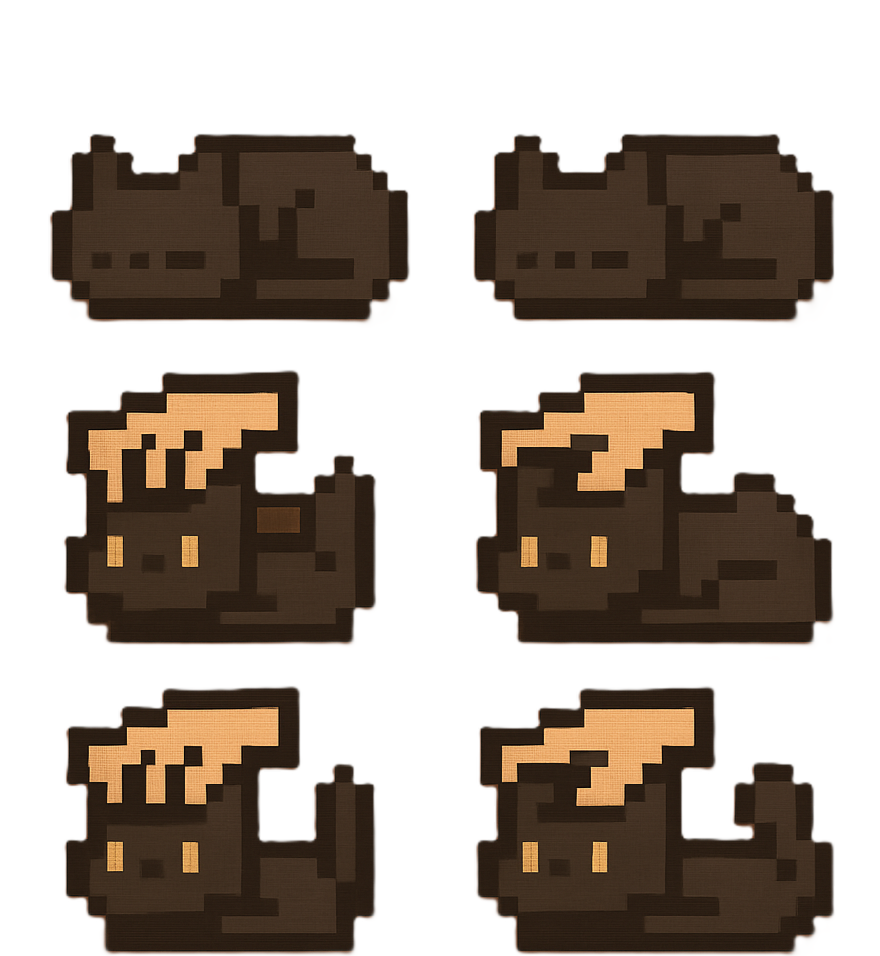
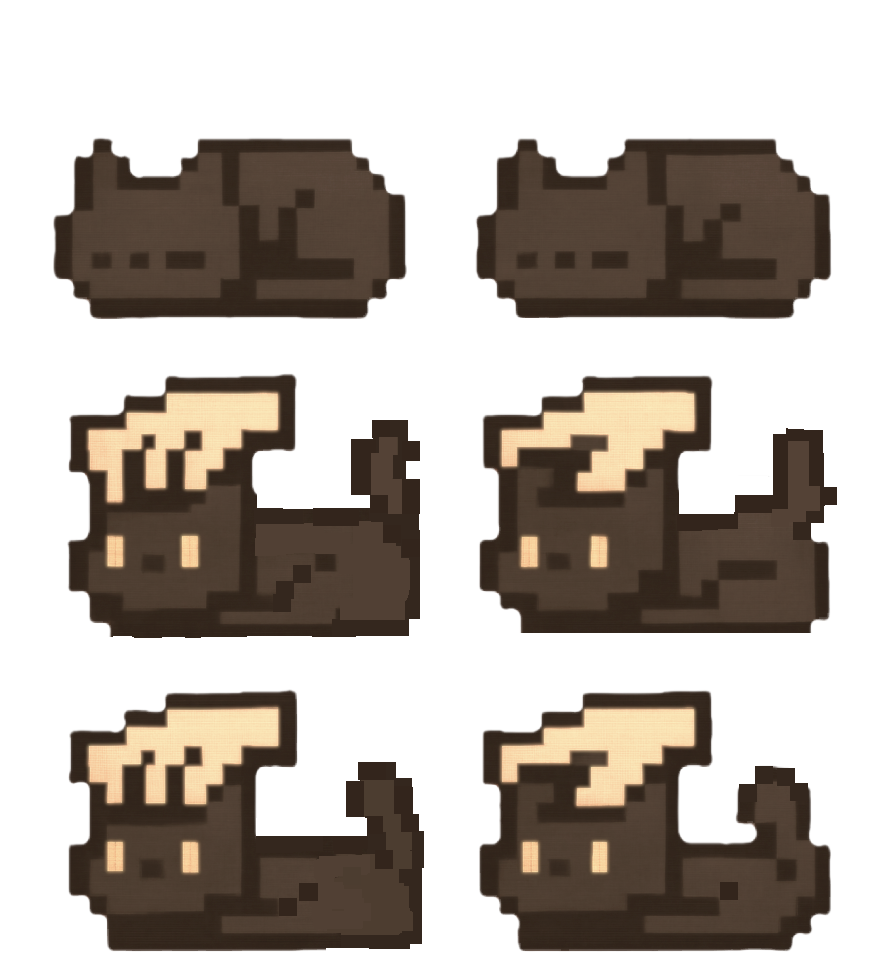
Dialogue buttons use Unicode glyphs; replace all colorful emoji
Swap every pictographic emoji for monochrome alternatives: dialogue choice buttons use text-presentation Unicode glyphs (chess pawn, music notes, list, doc, phone, sparkle, diamond, target), playful chat lines use ASCII emoticons (:D / ;) ), and the dev level-editor uses plain text labels. Removed dead emoji-only fields (world.js mapIcon, entities.js object icon). Kept text glyphs (close X, geometric symbols, arrows). All glyphs verified to render monochrome (no emoji fallback).

Bundled redesign tweaks: clickable project links in the Projects panel (header.js + ui.css, north-east-arrow indicator), music-room hitbox updates, and recompressed cat/dog pet sprites.

Bump content/game cache versions to v5.

diff --git a/js/content.js b/js/content.js
@@ -47,14 +47,13 @@ window.CONTENT = {
   },
   projects: {
     kicker: "Projects",
-    title: "Selected Projects",
+    title: "Side Projects",
+    lead: "Things I build on my own time, outside of work.",
     items: [
-      { h:"Airtable Clone", p:"Airtable clone built with the T3 stack." },
-      { h:"AI Job Application Tailor", p:"AI-powered web application that generates tailored cover letters and resume bullet points from a candidate profile and job description." },
-      { h:"Drone Delivery Simulation", p:"Optimized parcel delivery simulation focused on routing efficiency and system performance." },
-      { h:"Book Recommendation System", p:"Data processing and recommendation engine built on publicly available book datasets." },
-      { h:"Pinochle", p:"Desktop card game featuring GUI gameplay and an intelligent computer opponent." },
-      { h:"Chessformer Puzzle Solver", p:"AI puzzle solver using optimized search techniques and duplicate-state reduction." }
+      { h:"Airtable Clone", link:"https://airtable-clone-ryan.vercel.app/", p:"Airtable clone built with the T3 stack." },
+      { h:"Chessformer Puzzle Solver", link:"https://github.com/MoltoRubato/Chessformer-Puzzle-Solver", p:"AI puzzle solver using optimized search techniques and duplicate-state reduction." },
+      { h:"Pinochle", link:"https://github.com/MoltoRubato/Pinochle", p:"Desktop card game featuring GUI gameplay and an intelligent computer opponent." },
+      { h:"This Website", link:"https://github.com/MoltoRubato/MyWebsite", p:"The interactive pixel-art world you're exploring right now — built with vanilla JavaScript and an HTML5 canvas." }
     ]
   },
   contact: {
@@ -69,7 +68,7 @@ window.CONTENT = {
   // openLabel/actLabel/noLabel = funny choice-button text (game.js builds the menu).
   characters: {
     Drod: { name:"Drod", room:"game", color:"#caa23a",
-      opens:"projects", openLabel:"🧪 See the experiments",
+      opens:"projects", openLabel:"✦ See the experiments",
       actLabel:"♟ Play a game", noLabel:"Maybe later",
       lines:[
         "Ah, another brave soul sent here to be 'humbled.' Apparently that's my entire purpose.",
@@ -77,43 +76,43 @@ window.CONTENT = {
         "Anyway. Face me at the board, or go gawk at his other little experiments. I'm exhibit A, by the way."
       ] },
     Alex: { name:"Alex", room:"music", color:"#5fb0c9",
-      actLabel:"🥁 Tap out a beat", noLabel:"Just vibing",
+      actLabel:"♫ Tap out a beat", noLabel:"Just vibing",
       lines:[
         "Ayy, you found the studio! Watch the cables, a couple of 'em bite.",
         "The owner? Oh, he basically haunts this room. Pops in for a 'quick break,' leaves at 4am. Every time.",
         "Anyway, enough about the ghost who pays rent. Hop on the booth and let's hear you."
       ] },
     DJ: { name:"DJ", room:"music", color:"#b07acb",
-      actLabel:"🎛 Hop on the pad", noLabel:"Just vibing",
+      actLabel:"♪ Hop on the pad", noLabel:"Just vibing",
       lines:[
         "Shh. Oh, false alarm, you're cool. Thought you were here about the noise complaint.",
         "Every track in this place got hand-picked by you-know-who. Man has VERY strong opinions about hi-hats.",
         "Enough chitchat. Get on the decks and cook something. I totally won't judge. (I'm judging.)"
       ] },
     Bob: { name:"Bob", room:"lounge", color:"#d98a5a",
-      opens:"experience", openLabel:"📜 Show me the rundown", noLabel:"Nah, just resting",
+      opens:"experience", openLabel:"☰ Show me the rundown", noLabel:"Nah, just resting",
       lines:[
         "Sit, sit. This couch has held fancier people than me, but it'll cope.",
         "Asking about the owner, huh? I've watched a lotta folks pass through this lounge.",
         "That Ryan's worked more places than I've taken naps, and buddy, I nap competitively. Want the rundown?"
       ] },
     Dino: { name:"Dino", room:"lounge", color:"#69b06a",
-      opens:"about", openLabel:"🦖 Show me his file", noLabel:"I'll keep snooping",
+      opens:"about", openLabel:"▤ Show me his file", noLabel:"I'll keep snooping",
       lines:[
         "Oh! A real-life person. We mostly get pigeons in here, so honestly this is big.",
         "Word is some guy named 'Ryan' owns this whole place. Never seen him. Little bit sus, if you ask me.",
         "I'm nosy though, so I looked him up. Wanna see what kind of person builds a dinosaur his own lounge?"
       ] },
     Girl: { name:"Amelia", room:"gym", color:"#e58aa6",
-      opens:"contact", openLabel:"📇 Grab his contact", noLabel:"Just stretching",
+      opens:"contact", openLabel:"✆ Grab his contact", noLabel:"Just stretching",
       lines:[
         "Spotter's here! Drop the bar on your face and I'll gasp real convincing-like.",
         "Lemme guess: you're after the guy whose name's plastered all over this building?",
         "I'm not his secretary, but his contact's just sorta lying around over here. Don't make it weird."
       ] },
     Gojo: { name:"Gojo", room:"gym", color:"#7aa0e5",
-      opens:"projects", openLabel:"📂 Show me his builds",
-      actLabel:"🥊 Hit the bag", noLabel:"Just stretching",
+      opens:"projects", openLabel:"◆ Show me his builds",
+      actLabel:"◉ Hit the bag", noLabel:"Just stretching",
       lines:[
         "Throughout heaven and earth, I alone am the strongest… spotter in this gym, anyway.",
         "You wondering if the owner actually does stuff, or just hires cool guys to stand around? Valid question.",

diff --git a/js/hitboxes.js b/js/hitboxes.js
@@ -76,17 +76,17 @@ window.HITBOXES = (function(){
   // and top PNGs per box, so the 'src' tag is informational only.
   const SEED_DEPTH = {
     lounge: [
-      { x:582, y:132, w:54,  h:80, baseY:212, src:"props", label:"bookshelf" },
       { x:292, y:144, w:28,  h:78, baseY:222, src:"props", label:"dining set" },
-      { x:608, y:308, w:26,  h:60, baseY:368, src:"props", label:"clothing stand" },
+      { x:614, y:302, w:20,  h:69, baseY:368, src:"props", label:"clothing stand" },
       { x:322, y:352, w:94,  h:50, baseY:402, src:"props", label:"flower vases" },
       { x:310, y:225, w:87,  h:54, baseY:279, src:"top" },
-      { x:476, y:272, w:138, h:93, baseY:349, src:"top" },
-      { x:470, y:365, w:145, h:52, baseY:402, src:"top" },
-      { x:603, y:202, w:37,  h:41, baseY:238, src:"top" },
+      { x:476, y:272, w:141, h:93, baseY:349, src:"top" },
+      { x:470, y:366, w:141, h:51, baseY:402, src:"top" },
+      { x:609, y:202, w:31,  h:41, baseY:238, src:"top" },
       { x:516, y:170, w:50,  h:55, baseY:216, src:"top" },
       { x:384, y:144, w:31,  h:79, baseY:223, src:"top" },
-      { x:319, y:140, w:65,  h:70, baseY:206, src:"top" }
+      { x:319, y:140, w:65,  h:70, baseY:206, src:"top" },
+      { x:610, y:297, w:24,  h:47, baseY:367, src:"top" }
     ],
     gym: [
       { x:672, y:64,  w:32, h:96, baseY:160, src:"props", label:"punch bag" },
@@ -109,12 +109,13 @@ window.HITBOXES = (function(){
       { x:550, y:234, w:18, h:54, baseY:288, src:"props", label:"mic stand" },
       { x:320, y:356, w:64, h:55, baseY:411, src:"props", label:"keyboard" },
       { x:578, y:366, w:30, h:50, baseY:416, src:"props", label:"mic stand" },
-      { x:314, y:183, w:39, h:44, baseY:222, src:"top" },
-      { x:315, y:123, w:104, h:66, baseY:185, src:"top" },
+      { x:314, y:190, w:39, h:37, baseY:222, src:"top" },
+      { x:315, y:123, w:68, h:64, baseY:185, src:"top" },
       { x:570, y:203, w:42, h:87, baseY:290, src:"top" },
       { x:454, y:344, w:54, h:67, baseY:411, src:"top" },
       { x:512, y:307, w:57, h:78, baseY:385, src:"top" },
-      { x:512, y:385, w:56, h:28, baseY:413, src:"top" }
+      { x:512, y:385, w:56, h:28, baseY:413, src:"top" },
+      { x:383, y:158, w:30, h:28, baseY:186, src:"top" }
     ],
     game: [
       { x:288, y:140, w:32,  h:36,  baseY:176, src:"props", label:"hanging plant" },
@@ -122,10 +123,11 @@ window.HITBOXES = (function(){
       { x:416, y:140, w:32,  h:36,  baseY:176, src:"props", label:"hanging plant" },
       { x:480, y:140, w:32,  h:36,  baseY:176, src:"props", label:"hanging plant" },
       { x:544, y:140, w:32,  h:36,  baseY:176, src:"props", label:"hanging plant" },
-      { x:286, y:314, w:129, h:136, baseY:439, src:"top" },
+      { x:289, y:419, w:29,  h:31,  baseY:439, src:"top" },
       { x:281, y:190, w:149, h:105, baseY:295, src:"top" },
       { x:435, y:204, w:151, h:86,  baseY:290, src:"top" },
-      { x:460, y:322, w:101, h:108, baseY:429, src:"top" }
+      { x:460, y:322, w:101, h:108, baseY:388, src:"top" },
+      { x:296, y:381, w:18,  h:37,  baseY:439, src:"top" }
     ]
   };
 
@@ -157,7 +159,8 @@ window.HITBOXES = (function(){
       { x:314, y:231, w:77,  h:43  },
       { x:344, y:391, w:16,  h:8   },
       { x:330, y:386, w:13,  h:9   },
-      { x:361, y:388, w:13,  h:6   }
+      { x:361, y:388, w:13,  h:6   },
+      { x:608, y:190, w:33,  h:49  }
     ],
     gym: [
       { x:18,  y:-1,  w:960, h:128 },
@@ -181,10 +184,11 @@ window.HITBOXES = (function(){
       { x:578, y:385, w:200, h:72  },
       { x:292, y:223, w:117, h:64  },
       { x:452, y:223, w:119, h:63  },
-      { x:306, y:339, w:94,  h:69  },
+      { x:306, y:339, w:97,  h:79  },
       { x:497, y:350, w:34,  h:80  },
       { x:467, y:370, w:88,  h:43  },
-      { x:577, y:191, w:130, h:65  }
+      { x:577, y:191, w:130, h:65  },
+      { x:294, y:432, w:22,  h:10  }
     ],
     music: [
       { x:0,   y:0,   w:960, h:158 },
@@ -204,7 +208,9 @@ window.HITBOXES = (function(){
       { x:580, y:403, w:26,  h:10  },
       { x:514, y:311, w:25,  h:30  },
       { x:528, y:334, w:28,  h:5   },
-      { x:523, y:313, w:20,  h:21  }
+      { x:523, y:313, w:20,  h:21  },
+      { x:527, y:394, w:28,  h:13  },
+      { x:413, y:396, w:37,  h:16  }
     ]
   };
 

diff --git a/js/editor.js b/js/editor.js
@@ -95,18 +95,18 @@ window.EDITOR = (function(){
     p.innerHTML=`
       <div class="hbE-bar">
         <div><h4>LEVEL EDITOR</h4><div class="hbE-room" id="hbeRoom">—</div></div>
-        <button id="hbeEdit" class="pri">✎ Edit</button>
+        <button id="hbeEdit" class="pri">Edit</button>
       </div>
       <div id="hbeBody" style="display:none">
         <div class="hbE-seg">
           <button data-m="solid"   class="on">■ Solid</button>
           <button data-m="overlay">▦ Depth</button>
           <button data-m="door">⌑ Door</button>
-          <button data-m="spawn">✚ Spawn</button>
+          <button data-m="spawn">Spawn</button>
         </div>
         <div class="hbE-row" id="hbeAddRow">
           <button id="hbeAdd" style="flex:1">+ Add box</button>
-          <button id="hbeDel" class="danger" style="flex:1">🗑 Delete</button>
+          <button id="hbeDel" class="danger" style="flex:1">Delete</button>
         </div>
         <div class="hbE-grid">
           <div class="hbE-f"><label>X</label><input id="hbeX" type="number"></div>
@@ -128,10 +128,10 @@ window.EDITOR = (function(){
         </div>
         <div class="hbE-hint" id="hbeHint"></div>
         <div class="hbE-actions">
-          <button id="hbeExport">⬇ Export</button>
+          <button id="hbeExport">Export</button>
           <button id="hbeReset" class="danger">↺ Reset room</button>
         </div>
-        <button id="hbeDone" class="hbE-done">✓ Done editing</button>
+        <button id="hbeDone" class="hbE-done">Done editing</button>
       </div>`;
     document.body.appendChild(p);
     const q=id=>p.querySelector(id);
@@ -191,7 +191,7 @@ window.EDITOR = (function(){
     if(!el.panel) return;
     el.room.textContent = ROOM_LABEL[room]||room;
     el.body.style.display = editing?"block":"none";
-    el.edit.textContent = editing?"✎ Editing…":"✎ Edit";
+    el.edit.textContent = editing?"Editing…":"Edit";
     el.edit.style.display = editing?"none":"inline-block";
     el.addRow.style.display = (mode==="spawn")?"none":"flex";
     el.add.textContent = mode==="door" ? "+ Add door" : "+ Add box";

diff --git a/js/world.js b/js/world.js
@@ -15,7 +15,7 @@ window.WORLD = (function(){
   const ROOMS = {
     lounge: {
       key:"lounge", label:"The Lounge", img:"room_lounge", grid:"LoungeRoom",
-      mapPos:[1,1], mapIcon:"🛋", view:{x:198,y:100,w:534,h:352}, home:[14,9],
+      mapPos:[1,1], view:{x:198,y:100,w:534,h:352}, home:[14,9],
       doors:[
         { zone:[13,15,4,4],  to:"gym",   spawn:[17,9], face:"up"    },
         { zone:[7,7,8,11],   to:"game",  spawn:[17,9], face:"left"  },
@@ -24,21 +24,21 @@ window.WORLD = (function(){
     },
     gym: {
       key:"gym", label:"The Gym", img:"room_gym", grid:"gym",
-      mapPos:[1,0], mapIcon:"🏋", view:{x:134,y:38,w:660,h:372}, home:[14,7],
+      mapPos:[1,0], view:{x:134,y:38,w:660,h:372}, home:[14,7],
       doors:[
         { x:17, y:10, to:"lounge", spawn:[14,6], face:"down" }
       ]
     },
     game: {
       key:"game", label:"The Game Room", img:"room_game", grid:"Game",
-      mapPos:[0,1], mapIcon:"♟", view:{x:230,y:102,w:468,h:384}, home:[13,10],
+      mapPos:[0,1], view:{x:230,y:102,w:468,h:384}, home:[13,10],
       doors:[
         { x:18, y:9, to:"lounge", spawn:[9,9], face:"right" }
       ]
     },
     music: {
       key:"music", label:"The Music Studio", img:"room_music", grid:"Music",
-      mapPos:[2,1], mapIcon:"🎵", view:{x:198,y:70,w:468,h:384}, home:[13,9],
+      mapPos:[2,1], view:{x:198,y:70,w:468,h:384}, home:[13,9],
       doors:[
         { x:9, y:9, to:"lounge", spawn:[19,9], face:"left" }
       ]

diff --git a/css/ui.css b/css/ui.css
@@ -159,6 +159,13 @@
   color:var(--ui-gold);letter-spacing:.5px;font-variant-numeric:tabular-nums}
 .pj-body{flex:1;min-width:0}
 .pj-title{margin:0 0 4px;font-size:18px;line-height:1.25;color:#392815}
+.pj-link{color:inherit;text-decoration:none;display:inline-flex;align-items:baseline;gap:5px;
+  transition:color .2s ease}
+.pj-link:hover{color:var(--ui-gold)}
+.pj-link:focus-visible{outline:2px solid var(--ui-gold);outline-offset:3px;border-radius:4px}
+.pj-ext{font-size:.72em;color:var(--ui-gold);opacity:.42;transform:translateY(-1px);
+  transition:opacity .2s ease, transform .2s ease}
+.pj-link:hover .pj-ext,.pj-link:focus-visible .pj-ext{opacity:1;transform:translate(2px,-3px)}
 .pj-desc{margin:0;font-size:14.5px;line-height:1.55;color:var(--ui-ink-soft);max-width:58ch}
 
 /* ===== Contact ===== */
@@ -198,7 +205,7 @@
   .xp-row,.pj-row,.ct-row{animation:none !important}
   #panel.in .panel-card{transform:none}
   .panel-close:hover{transform:none}
-  .ct-link,.ct-go,.ct-ic{transition:none}
+  .ct-link,.ct-go,.ct-ic,.pj-link,.pj-ext{transition:none}
 }
 
 /* ---------------- Map modal ---------------- */

diff --git a/js/game.js b/js/game.js
@@ -50,7 +50,7 @@ window.GAME = (function(){
       keys[k]=true;
       if(k==="enter"||k==="e"){ interact(); }
       if(k==="m"){ HEADER.openMap(); }
-      if(k==="h"){ setHitboxes(!showHitboxes); }
+      // if(k==="h"){ setHitboxes(!showHitboxes); }  // DEV hitbox toggle — disabled for now (still reachable via ?dev=1)
     });
     window.addEventListener("keyup",(e)=>{ keys[e.key.toLowerCase()]=false; });
     // touch dpad
@@ -101,8 +101,8 @@ window.GAME = (function(){
     // (chess/music/workout) and an optional header tab they can pull up (opens).
     const choices=[], actions={};
     const ACT={ chess:{def:"♟ Play a game", run:openChess},
-                music:{def:"🥁 Tap out a beat", run:openBeatpad},
-                workout:{def:"🥊 Hit the bag", run:openWorkout} };
+                music:{def:"♫ Tap out a beat", run:openBeatpad},
+                workout:{def:"◉ Hit the bag", run:openWorkout} };
     if(npc.interact && ACT[npc.interact]){
       choices.push({label:data.actLabel||ACT[npc.interact].def, value:"act"});
       actions.act=ACT[npc.interact].run;

diff --git a/js/header.js b/js/header.js
@@ -67,11 +67,17 @@ window.HEADER = (function(){
 
   function projectsHTML(){
     const p = C.projects;
-    const rows = (p.items||[]).map((it,i)=>`
+    const ext='target="_blank" rel="noopener"';
+    const rows = (p.items||[]).map((it,i)=>{
+      const title = it.link
+        ? `<h3 class="pj-title"><a class="pj-link" href="${it.link}" ${ext}>${it.h}<span class="pj-ext" aria-hidden="true">↗</span></a></h3>`
+        : `<h3 class="pj-title">${it.h}</h3>`;
+      return `
       <li class="pj-row" style="--d:${0.06+i*0.045}s">
         <span class="pj-num">${String(i+1).padStart(2,"0")}</span>
-        <div class="pj-body"><h3 class="pj-title">${it.h}</h3><p class="pj-desc">${it.p}</p></div>
-      </li>`).join("");
+        <div class="pj-body">${title}<p class="pj-desc">${it.p}</p></div>
+      </li>`;
+    }).join("");
     return panelHead(p.kicker, p.title, p.lead) + `<ol class="pj-list">${rows}</ol>`;
   }
 

diff --git a/js/music.js b/js/music.js
@@ -187,7 +187,7 @@ window.MUSIC = (function(){
     host.classList.remove("hidden"); requestAnimationFrame(()=>host.classList.add("in"));
     duckForPad();                                  // fade the jukebox music out
     buildPad(); wireBeat();
-    bpSay("Welcome to the booth. Tap out something filthy. 🎛");
+    bpSay("Welcome to the booth. Tap out something filthy. ;)");
     bpLastT=0; bpRaf=requestAnimationFrame(beatLoop);
   }
   function closeBeatpad(){
@@ -260,7 +260,7 @@ window.MUSIC = (function(){
       seqTimer=setTimeout(tick, (60/bpm)*1000/2);
     };
     tick();
-    bpSay("Now we're cooking. 🔥");
+    bpSay("Now we're cooking. :D");
   }
   function stopPad(){
     padPlaying=false; if(seqTimer)clearTimeout(seqTimer); seqTimer=null;

diff --git a/index.html b/index.html
@@ -106,7 +106,7 @@
   </div>
 </div>
 
-<script src="js/content.js?v=3"></script>
+<script src="js/content.js?v=5"></script>
 <script src="js/collision.js"></script>
 <script src="js/hitboxes.js?v=2"></script>
 <script src="js/assets.js?v=2"></script>
@@ -116,10 +116,10 @@
 <script src="js/dialogue.js"></script>
 <script src="js/header.js?v=4"></script>
 <script src="js/chess-engine.js"></script>
-<script src="js/chess.js?v=2"></script>
-<script src="js/music.js?v=3"></script>
+<script src="js/chess.js?v=3"></script>
+<script src="js/music.js?v=4"></script>
 <script src="js/workout.js"></script>
-<script src="js/game.js?v=3"></script>
+<script src="js/game.js?v=5"></script>
 <script src="js/editor.js"></script>
 <script src="js/boot.js"></script>
 </body>

diff --git a/js/entities.js b/js/entities.js
@@ -60,7 +60,7 @@ window.ENTITIES = (function(){
   // The speaker is rendered as an animated sprite (see game.js render) and is
   // the jukebox trigger — it bobs/animates while site-wide music is playing.
   const OBJECTS = {
-    music:[ { type:"music", name:"Speaker", tx:13, ty:12, hint:"Open jukebox", icon:"🔊", sprite:"speaker" } ]
+    music:[ { type:"music", name:"Speaker", tx:13, ty:12, hint:"Open jukebox", sprite:"speaker" } ]
   };
 
   // Pets — critters you can walk up to and pet (Enter/E). Placed in world px

diff --git a/js/chess.js b/js/chess.js
@@ -146,7 +146,7 @@ window.CHESS = (function(){
     if(mv.cap!=="."){ say(pick(who==="w"?LINES.playerCap:LINES.aiCap), 2200); }
     const st=E.status(state);
     if(st==="checkmate"){ over=true;
-      if(state.turn==="b"){ setStatus("Checkmate — you win! 🏆"); say(pick(LINES.lose),5000); }
+      if(state.turn==="b"){ setStatus("Checkmate — you win! :D"); say(pick(LINES.lose),5000); }
       else { setStatus("Checkmate — Drod wins."); say(pick(LINES.win),5000); }
       return;
     }
